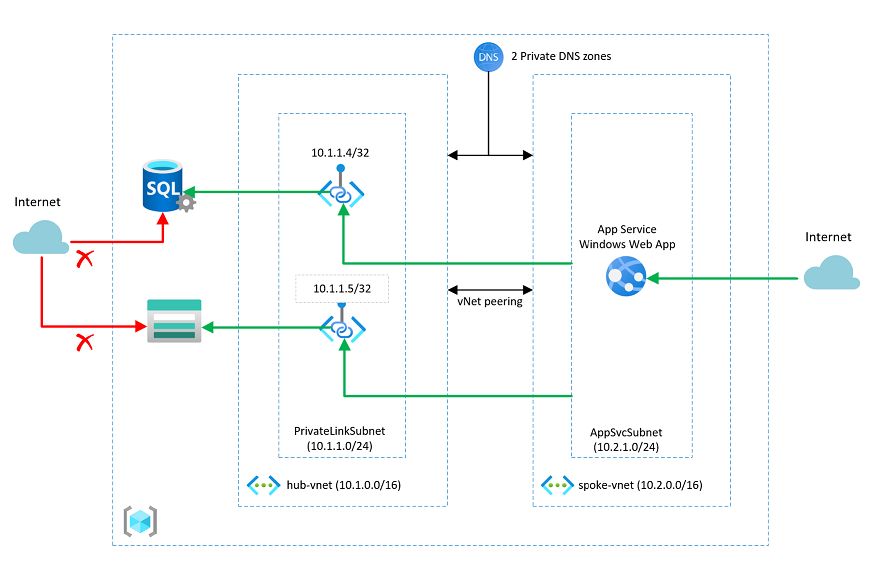
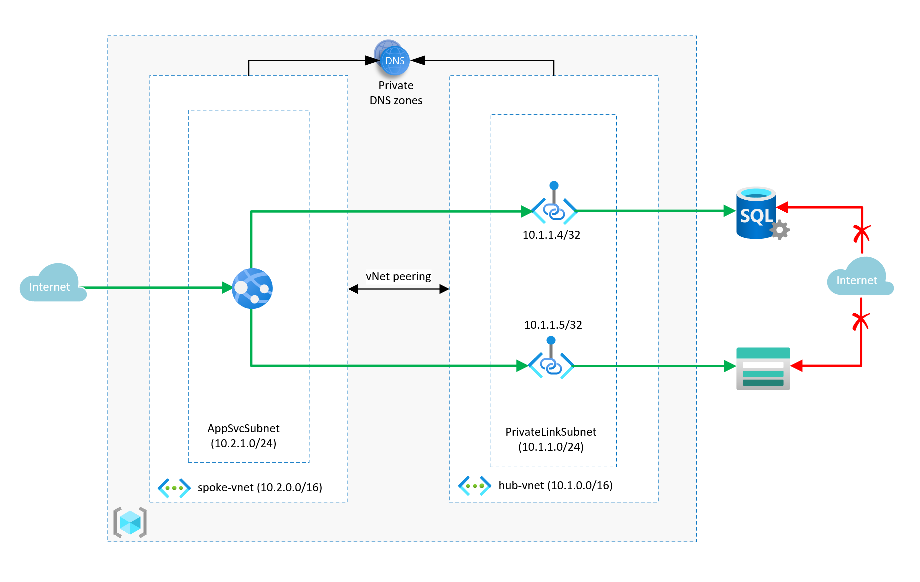
updated architecture diagram and made minor changes to the app.json template

diff --git a/301-web-app-regional-vnet-private-endpoint-sql-storage/README.md b/301-web-app-regional-vnet-private-endpoint-sql-storage/README.md
@@ -35,6 +35,21 @@ The following resources are deployed as part of this solution
 - App Service Web app
   - Regional virtual network integration
 
+  Note that for traffic to pass from the web app to the private endpoints, the following web app environment variables must be set in the app.json nested template.
+
+  "siteConfig": {
+                    "appSettings": [
+                        {
+                            "name": "WEBSITE_VNET_ROUTE_ALL",
+                            "value": 1
+                        },
+                        {
+                            "name": "WEBSITE_DNS_SERVER",
+                            "value": "168.63.129.16"
+                        }
+                    ]
+                }
+
 ### Scenario Deployment Validation
 
 To validate that the web app can resolve the private endpoints for the Azure SQL DB and storage account follow the steps below. 
